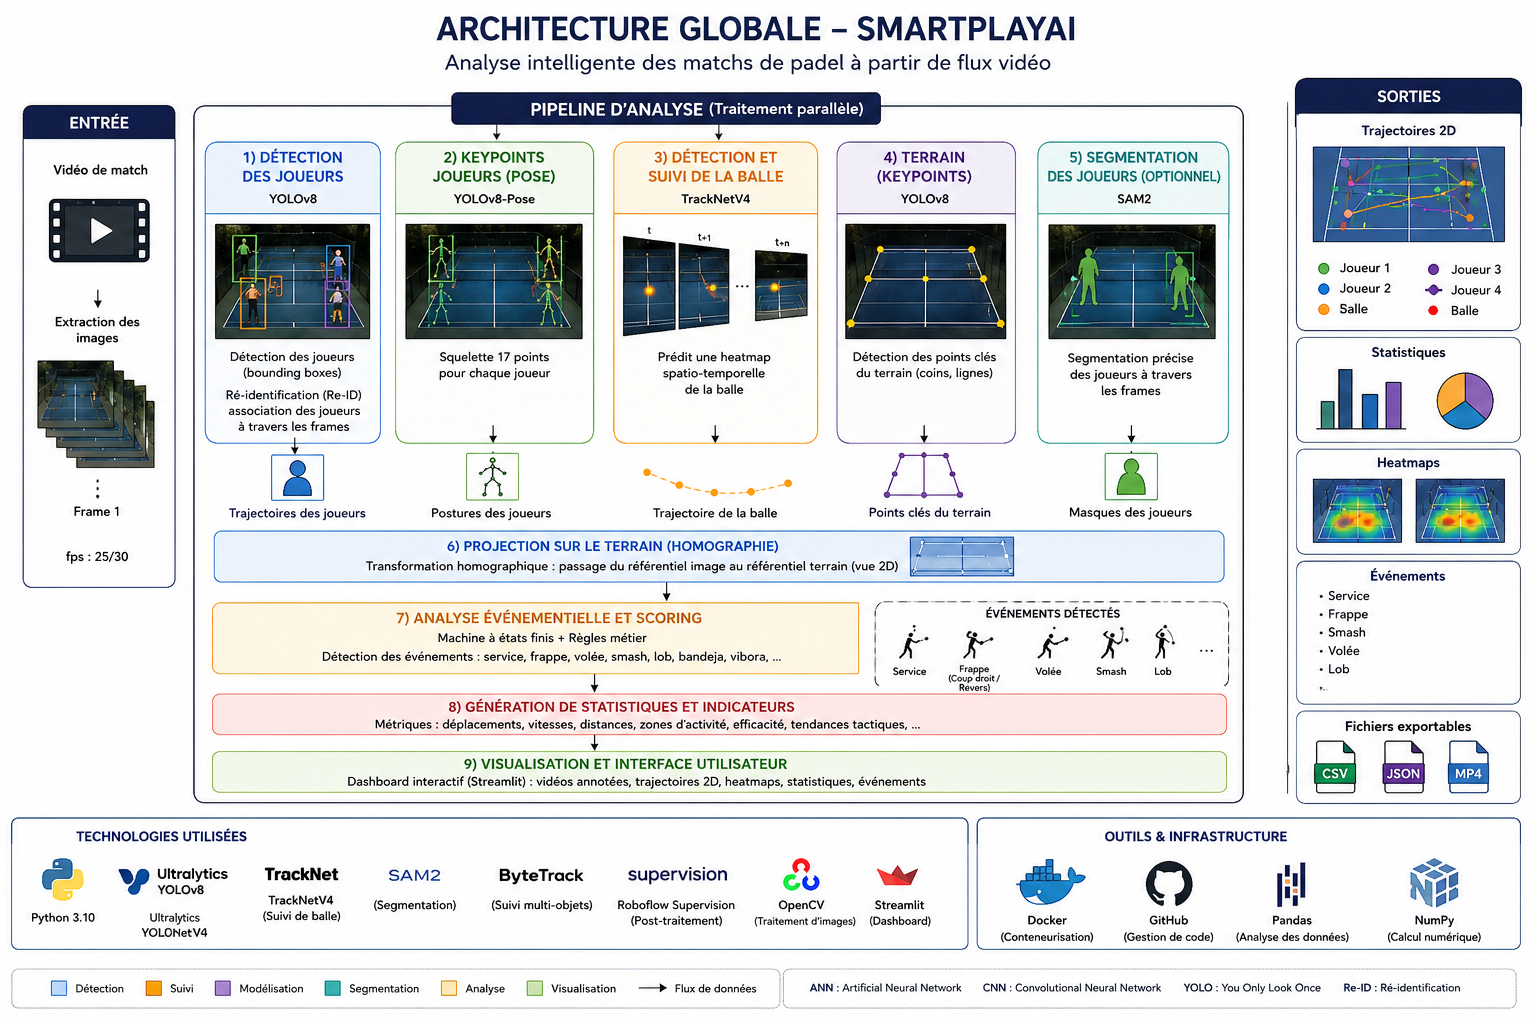
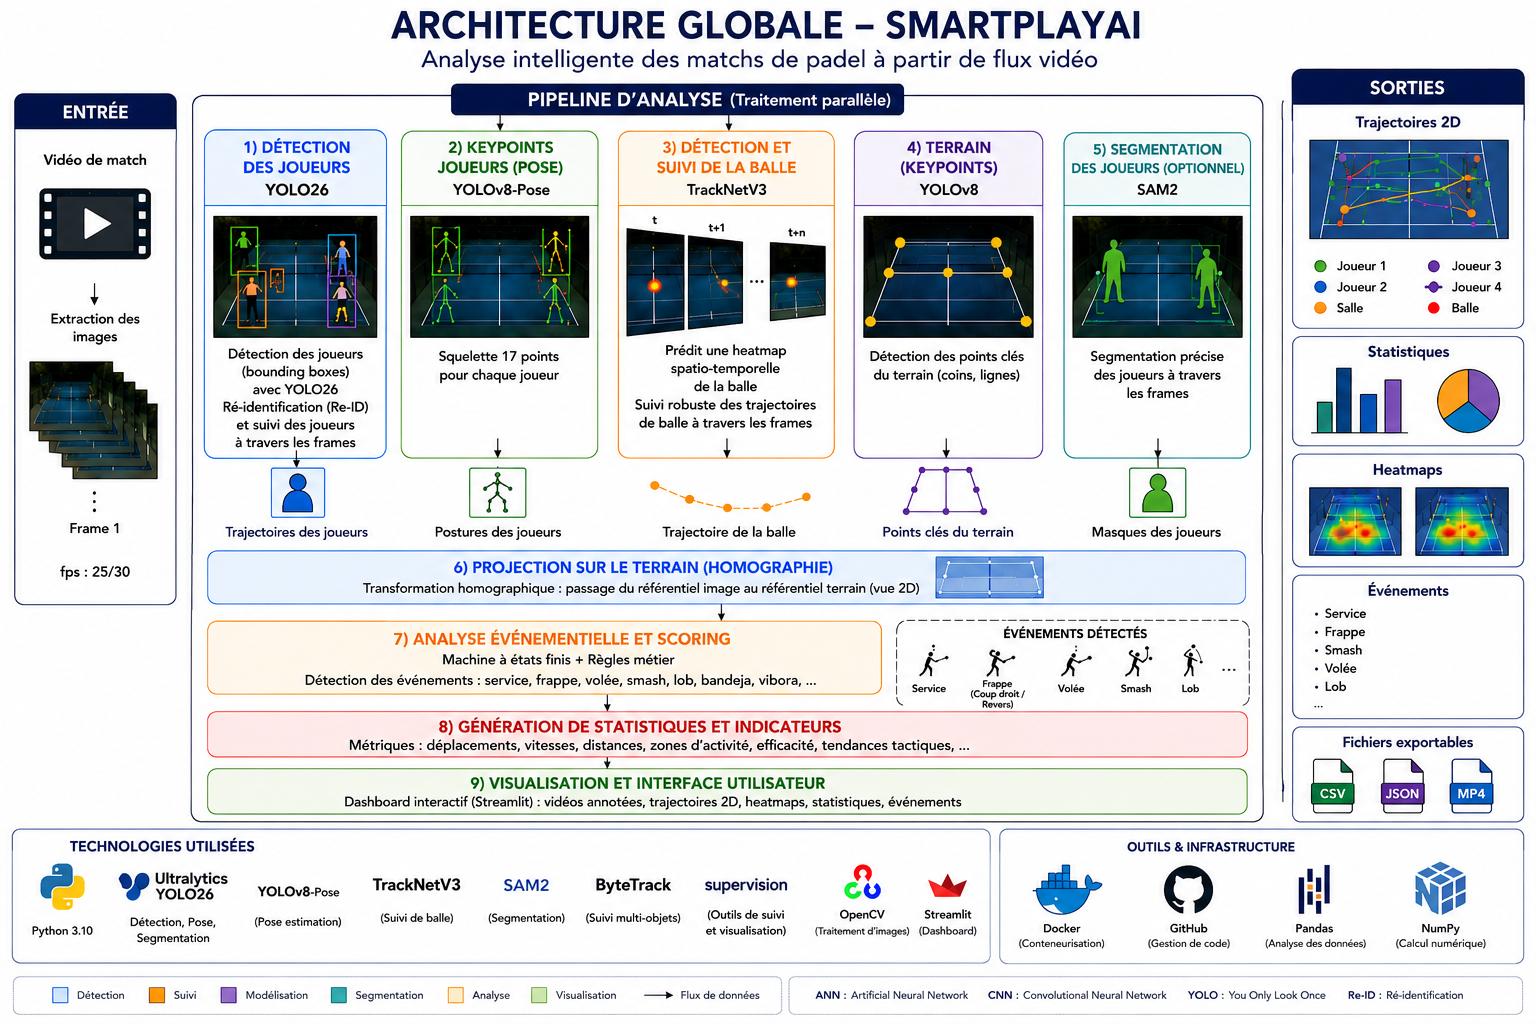
Revise architecture chapter: streamline content, update table formatting, and correct pagination

Changed region(s): [[0.0, 0.0, 1.0, 1.0]]

diff --git a/Chapitre2.tex b/Chapitre2.tex
@@ -1,7 +1,3 @@
-
-
-
-
 \chapter{Architecture de la solution}
 
 \section{Introduction}
@@ -10,8 +6,7 @@ L’analyse automatisée de matchs sportifs à partir de flux vidéo constitue u
 
 Afin de répondre à ces exigences, nous avons conçu SmartPlayAI, une plateforme intelligente d’analyse vidéo dédiée au padel. L’architecture du système repose sur un pipeline modulaire dans lequel chaque composant remplit une fonction clairement définie et produit des résultats exploités par les modules situés en aval. Les choix technologiques effectués ont été guidés par une étude comparative des solutions existantes, dans le but d’obtenir le meilleur compromis entre précision, robustesse et efficacité computationnelle.
 
-Ce chapitre présente l’architecture de SmartPlayAI de manière progressive. La section 2.1 décrit l’architecture générale du système à travers une double représentation externe et interne. La section 2.2 détaillera le pipeline de traitement vidéo, avec un focus particulier sur la détection de la balle. Les sections 2.3 et 2.4 présenteront respectivement la modélisation du terrain et la projection homographique. Les sections 2.5, 2.6 et 2.7 décriront ensuite le moteur de scoring automatique, la génération des statistiques ainsi que les performances et optimisations mises en œuvre.
-
+Ce chapitre présente l’architecture globale de SmartPlayAI ainsi que les principaux choix de conception ayant guidé son développement. Nous décrirons les différents modules qui composent le système et leur rôle dans le processus d’analyse, depuis le traitement des vidéos jusqu’à la génération des statistiques et des visualisations.
 \section{Architecture générale du système}
 
 Avant de détailler le fonctionnement de chaque module, il est nécessaire de présenter le système dans son ensemble. Pour cela, nous adoptons une approche classique en ingénierie logicielle reposant sur deux niveaux de description complémentaires : une vue externe, dite \textit{boîte noire}, qui met en évidence les entrées et les sorties du système, et une vue interne, dite \textit{boîte blanche}, qui expose l’organisation des composants ainsi que leurs interactions.
@@ -71,32 +66,30 @@ Sur le plan interne, SmartPlayAI est organisé sous la forme d’un pipeline de 
 \centering
 \caption{Composants principaux de SmartPlayAI et technologies associées}
 \label{tab:components-smartplayai}
-\tablestyle
-\begin{tabularx}{\textwidth}{L{3.2cm} X L{3.2cm}}
-\toprule
-\rowcolor{tablehead}
-\textcolor{white}{\textbf{Composant}} & \textcolor{white}{\textbf{Rôle fonctionnel}} & \textcolor{white}{\textbf{Technologie}} \\
-\midrule
-\rowcolor{rowalt}
+\renewcommand{\arraystretch}{1.3}
+\begin{tabular}{|p{3.5cm}|p{6cm}|p{3.5cm}|}
+\hline
+\textbf{Composant} & \textbf{Rôle fonctionnel} & \textbf{Technologie retenue} \\
+\hline
 Détection des joueurs & Localiser et délimiter chaque joueur & YOLO26 \\
-\rowcolor{rowalt2}
+\hline
 Analyse de posture & Extraire les 17 points clés du squelette & YOLOv8-Pose \\
-\rowcolor{rowalt}
+\hline
 Détection de la balle & Estimer la trajectoire spatio-temporelle & TrackNetV3 \\
-\rowcolor{rowalt2}
+\hline
 Modélisation du terrain & Détecter les lignes et coins du court & YOLOv8 Keypoints \\
-\rowcolor{rowalt}
+\hline
 Segmentation des joueurs & Isoler précisément les silhouettes & SAM2 \\
-\rowcolor{rowalt2}
+\hline
 Suivi multi-objets & Maintenir des identifiants stables & ByteTrack \\
-\rowcolor{rowalt}
+\hline
 Projection homographique & Convertir les coordonnées image en coordonnées métriques & OpenCV \\
-\rowcolor{rowalt2}
+\hline
 Analyse événementielle & Détecter les services, frappes et fautes & Automate à états finis \\
-\rowcolor{rowalt}
+\hline
 Visualisation et Dashboard & Afficher statistiques et heatmaps & Streamlit + Pandas \\
-\bottomrule
-\end{tabularx}
+\hline
+\end{tabular}
 \end{table}
 
 \subsection{Flux de données et intégration des modules}

diff --git a/chapitre1 (2).tex b/chapitre1 (2).tex
@@ -693,12 +693,6 @@ NumPy / Pandas & Manipulation et analyse des données \\
 \hline
 React & Interface web utilisateur \\
 \hline
-React Router & Navigation côté client \\
-\hline
-React Flow & Visualisation de flux interactifs \\
-\hline
-React Spring & Animations et transitions UX \\
-\hline
 Node.js & Serveur d'API et orchestration \\
 \hline
 FastAPI & Framework backend pour les API \\